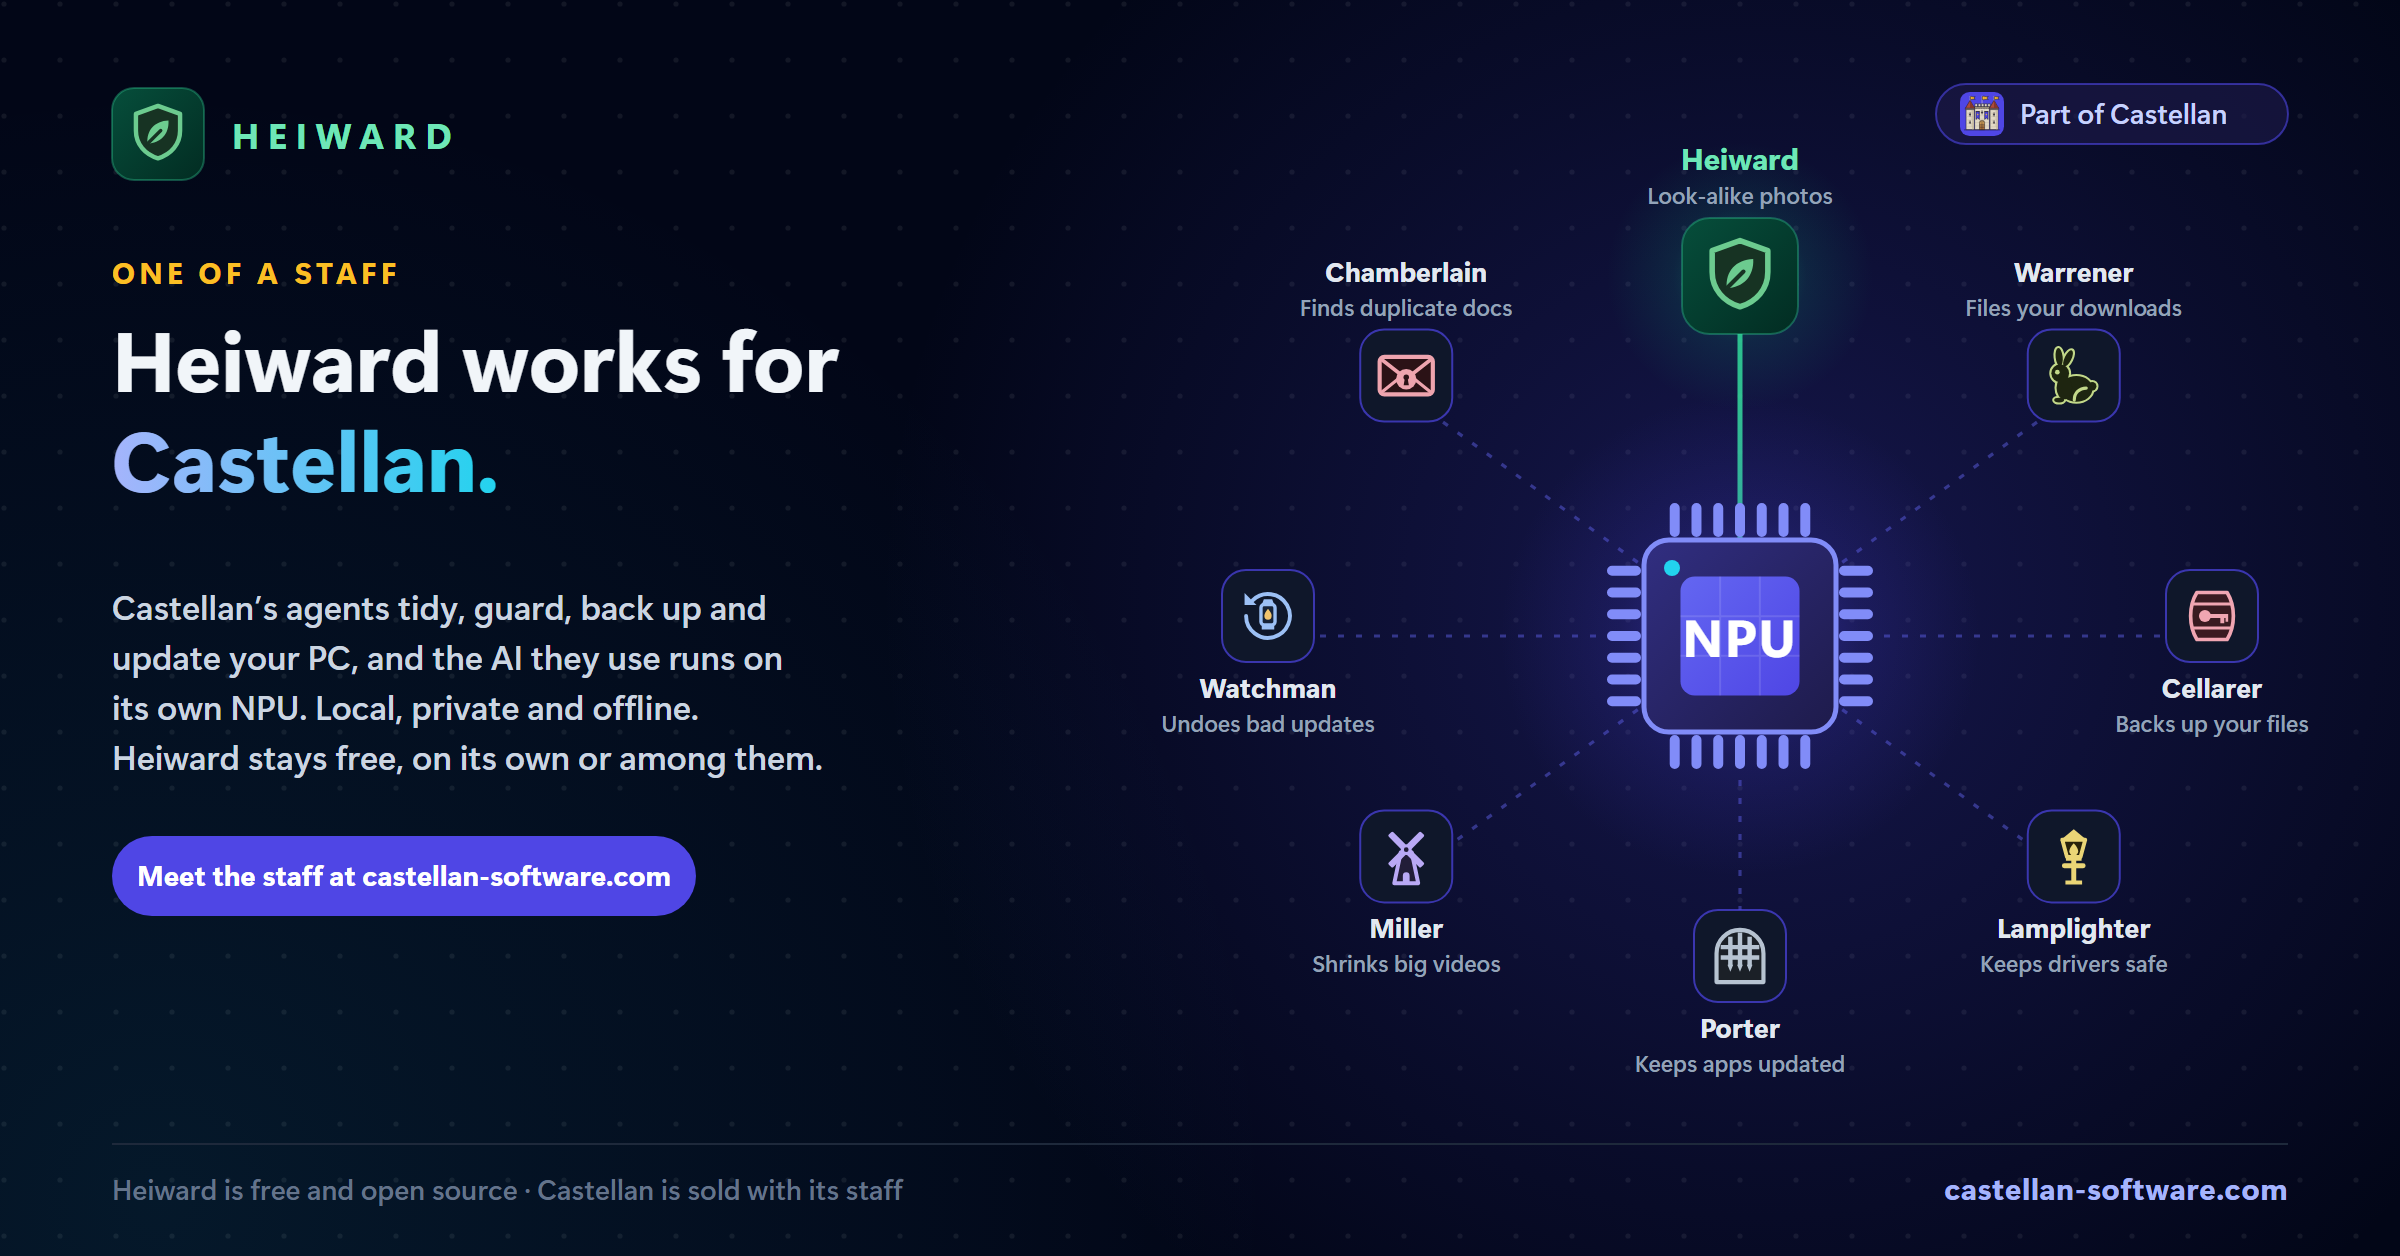
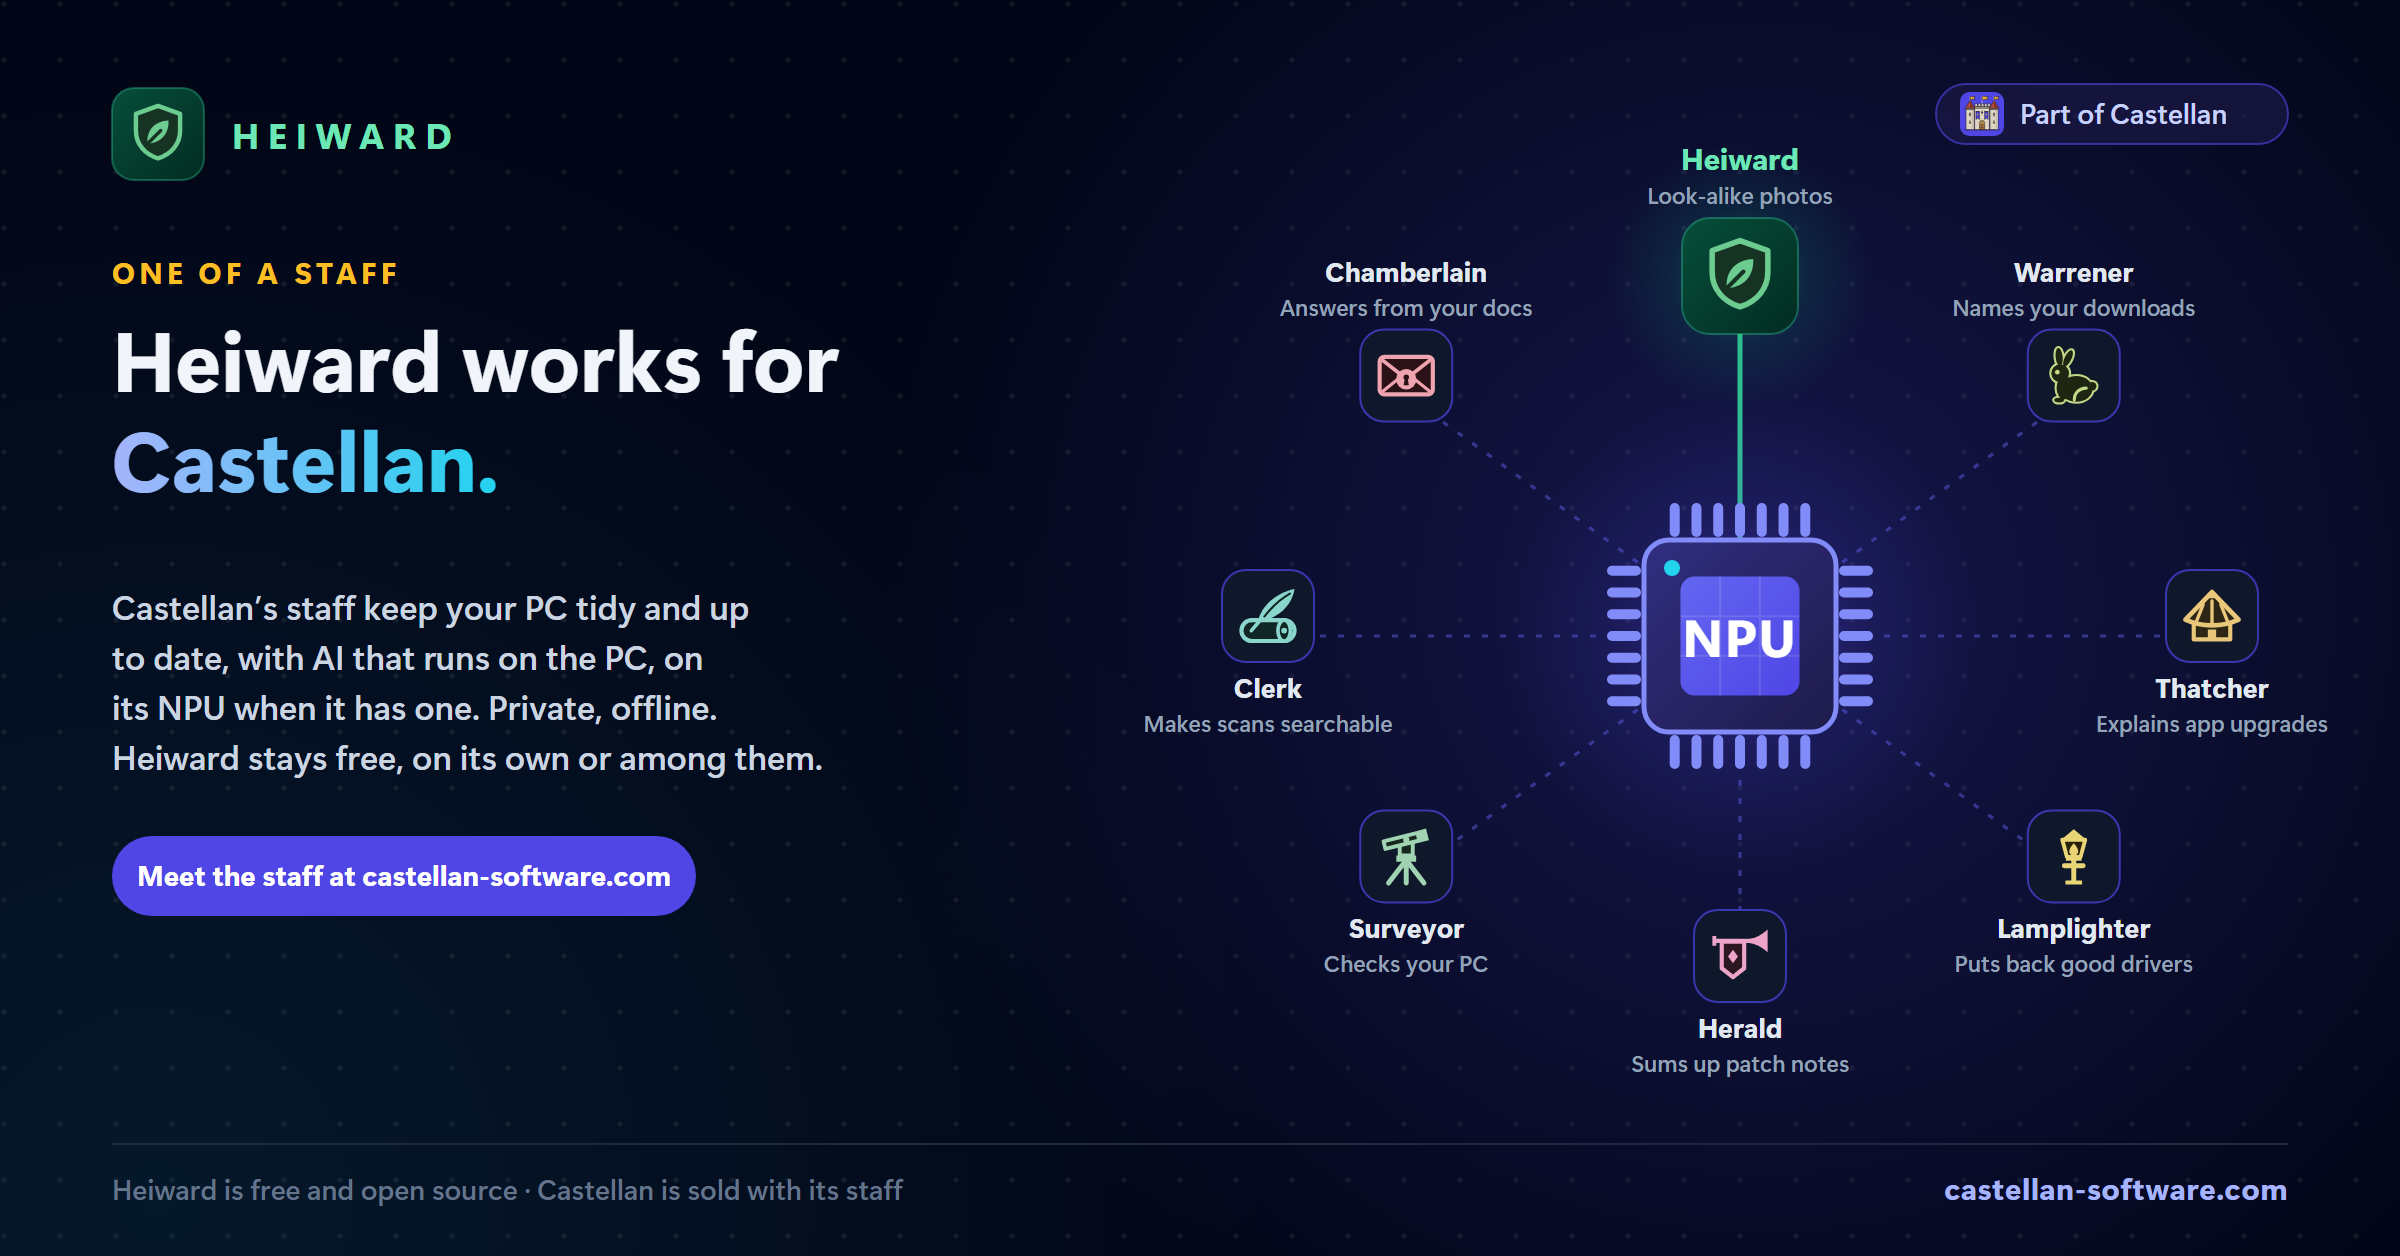
Castellan's words in Heiward: staff, not agents; only AI staff on the NPU picture

diff --git a/HEI.Agent/wwwroot/app.js b/HEI.Agent/wwwroot/app.js
@@ -1216,7 +1216,7 @@ function gpuSetting(s) {
 // the questions the console setup asks: where the AI runs (the NPU it found, named, unless the user overrides it,
 // against the page's advice), when to scan (on the GPU or CPU), how hard scans work, and whether to remove a copy
 // installed from GitHub. Then the install's progress beside a slideshow of what Heiward does (tools/art/make-art.mjs
-// draws the slides), and Done, with Castellan, the staff of agents Heiward is part of. The page keeps the setup's look
+// draws the slides), and Done, with Castellan, the household staff Heiward is part of. The page keeps the setup's look
 // (html.setup-mode) until Open Heiward.
 const SETUP_SLIDES = [
   ['found', 'Look-alike photos and videos, found'],
@@ -1403,7 +1403,7 @@ function setupWelcome(setup) {
   }
   text.append(facts);
   const part = el('p', 'setup-part');
-  part.append(document.createTextNode('Heiward is part of Castellan, a staff of AI agents that look after your PC on its own hardware. '), castellanLink('castellan-software.com'));
+  part.append(document.createTextNode('Heiward is part of Castellan, a household staff that looks after your PC, with its AI on the PC itself. '), castellanLink('castellan-software.com'));
   const go = el('button', 'btn setup-go', 'Get started');
   go.addEventListener('click', () => { setupStep = 'pc'; renderSetup(state); });
   const actions = el('div', 'setup-actions');
@@ -1608,12 +1608,12 @@ function setupDone(s) {
   const more = el('aside', 'setup-castellan');
   const pic = el('img', 'setup-castellan-img');
   pic.src = '/setup/castellan.svg';
-  pic.alt = 'Heiward among Castellan\'s staff of agents';
+  pic.alt = 'Heiward among Castellan\'s staff';
   const text = el('div', 'setup-castellan-text');
   text.append(el('div', 'setup-eyebrow castellan', 'Part of Castellan'),
     el('h2', null, 'Heiward has company'),
-    el('p', null, 'Castellan is a staff of AI agents that look after your PC: backups, undoing a bad update, display drivers, ' +
-      'documents, games and more, each using a local AI model on this PC (on its NPU when it has one), privately.'),
+    el('p', null, 'Castellan is a household staff that looks after your PC: backups, undoing a bad update, display drivers, ' +
+      'documents, games and more. Those that use AI run it on this PC, on its NPU when it has one: your files stay here.'),
     castellanLink('Meet the staff at castellan-software.com', 'btn castellan-btn'));
   more.append(pic, text);
   return [col, more];
@@ -3711,7 +3711,7 @@ function renderManorCard(card) {
   if (!show) { $('manor-card').replaceChildren(); return; }
   const box = el('div', 'auto-card manor-card');
   box.append(el('p', 'manor-card-lead',
-    'Heiward is one of a household of agents that look after this PC, each at its own job, all on this PC. Castellan is the house they share.'));
+    'Heiward is one of a household staff that look after this PC, each at its own job, all on this PC. Castellan is the house they share.'));
   const staff = el('ul', 'manor-staff');
   for (const [name, does] of MANOR_STAFF) {
     const li = el('li');

diff --git a/README.md b/README.md
@@ -17,7 +17,7 @@ It lists what it finds, what games leave behind in game mode, and stale develope
 
 A *heiward* (Middle English, "hedge warden") was the village officer who kept the hedges trimmed and the fences sound.
 
-**Part of Castellan.** Heiward is free, open source and works on its own. It's also one of the staff of [Castellan](https://castellan-software.com/): AI agents that look after a Windows PC with a local model, on its NPU when it has one, for backups, undoing a bad update, display drivers, documents, games and more. Meet them at [castellan-software.com](https://castellan-software.com/).
+**Part of Castellan.** Heiward is free, open source and works on its own. It's also one of the staff of [Castellan](https://castellan-software.com/): a household staff that looks after a Windows PC: backups, undoing a bad update, display drivers, documents, games and more. Those that use AI run a local model on the PC, on its NPU when it has one. Meet them at [castellan-software.com](https://castellan-software.com/).
 
 ![Heiward's home page: a card per drive or folder with its sets of copies, developer cleanup, and the folders where cleaning up frees the most](docs/screenshots/home.png)
 
@@ -43,7 +43,7 @@ A *heiward* (Middle English, "hedge warden") was the village officer who kept th
 </tr>
 <tr>
 <td width="50%"><img src="docs/art/heiward-gentle.png" alt="Gentle in the background: efficiency mode, and it makes way for games and a low battery"></td>
-<td width="50%"><a href="https://castellan-software.com/"><img src="docs/art/heiward-castellan.png" alt="Heiward works for Castellan, a staff of AI agents for your PC: castellan-software.com"></a></td>
+<td width="50%"><a href="https://castellan-software.com/"><img src="docs/art/heiward-castellan.png" alt="Heiward works for Castellan, a household staff for your PC: castellan-software.com"></a></td>
 </tr>
 </table>
 
